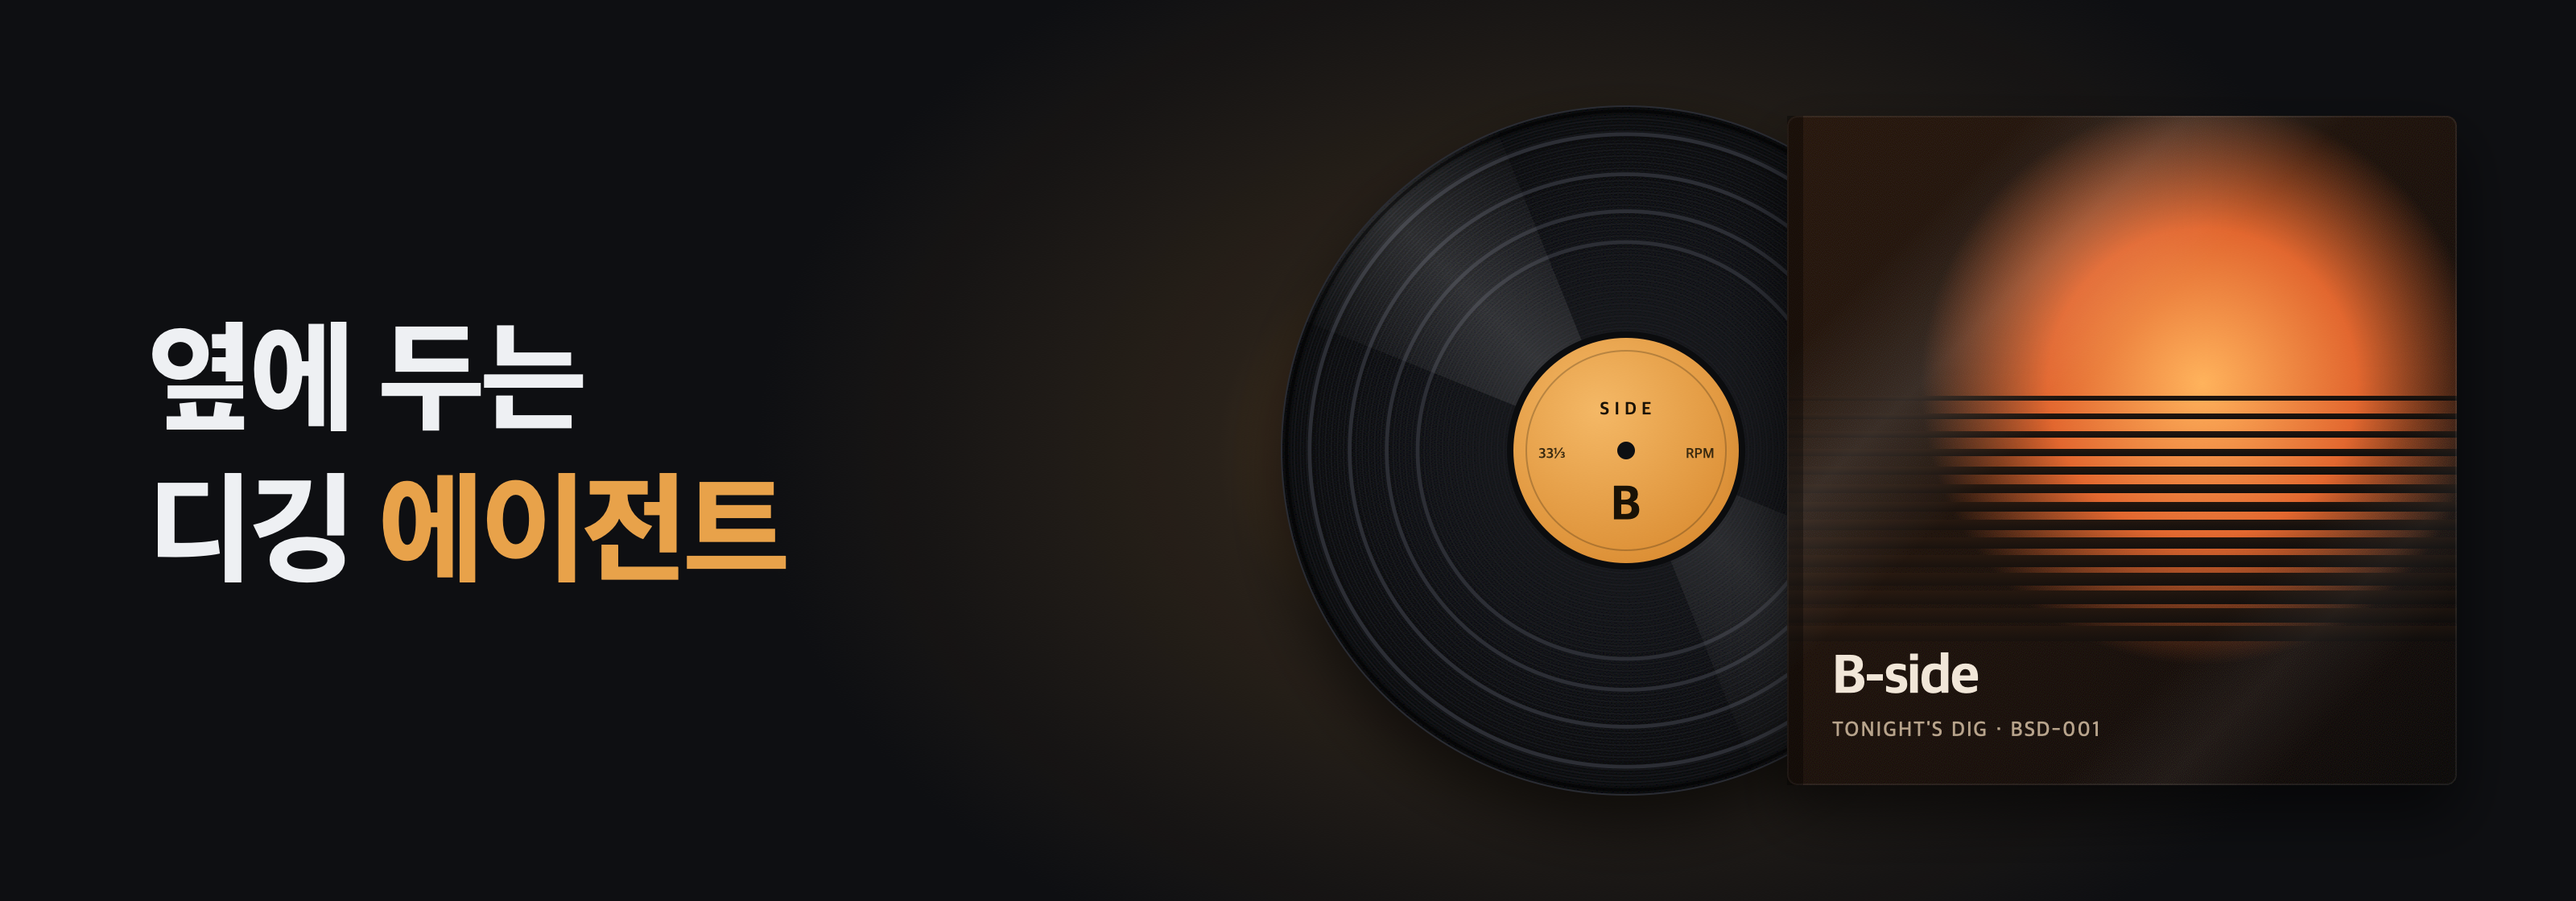
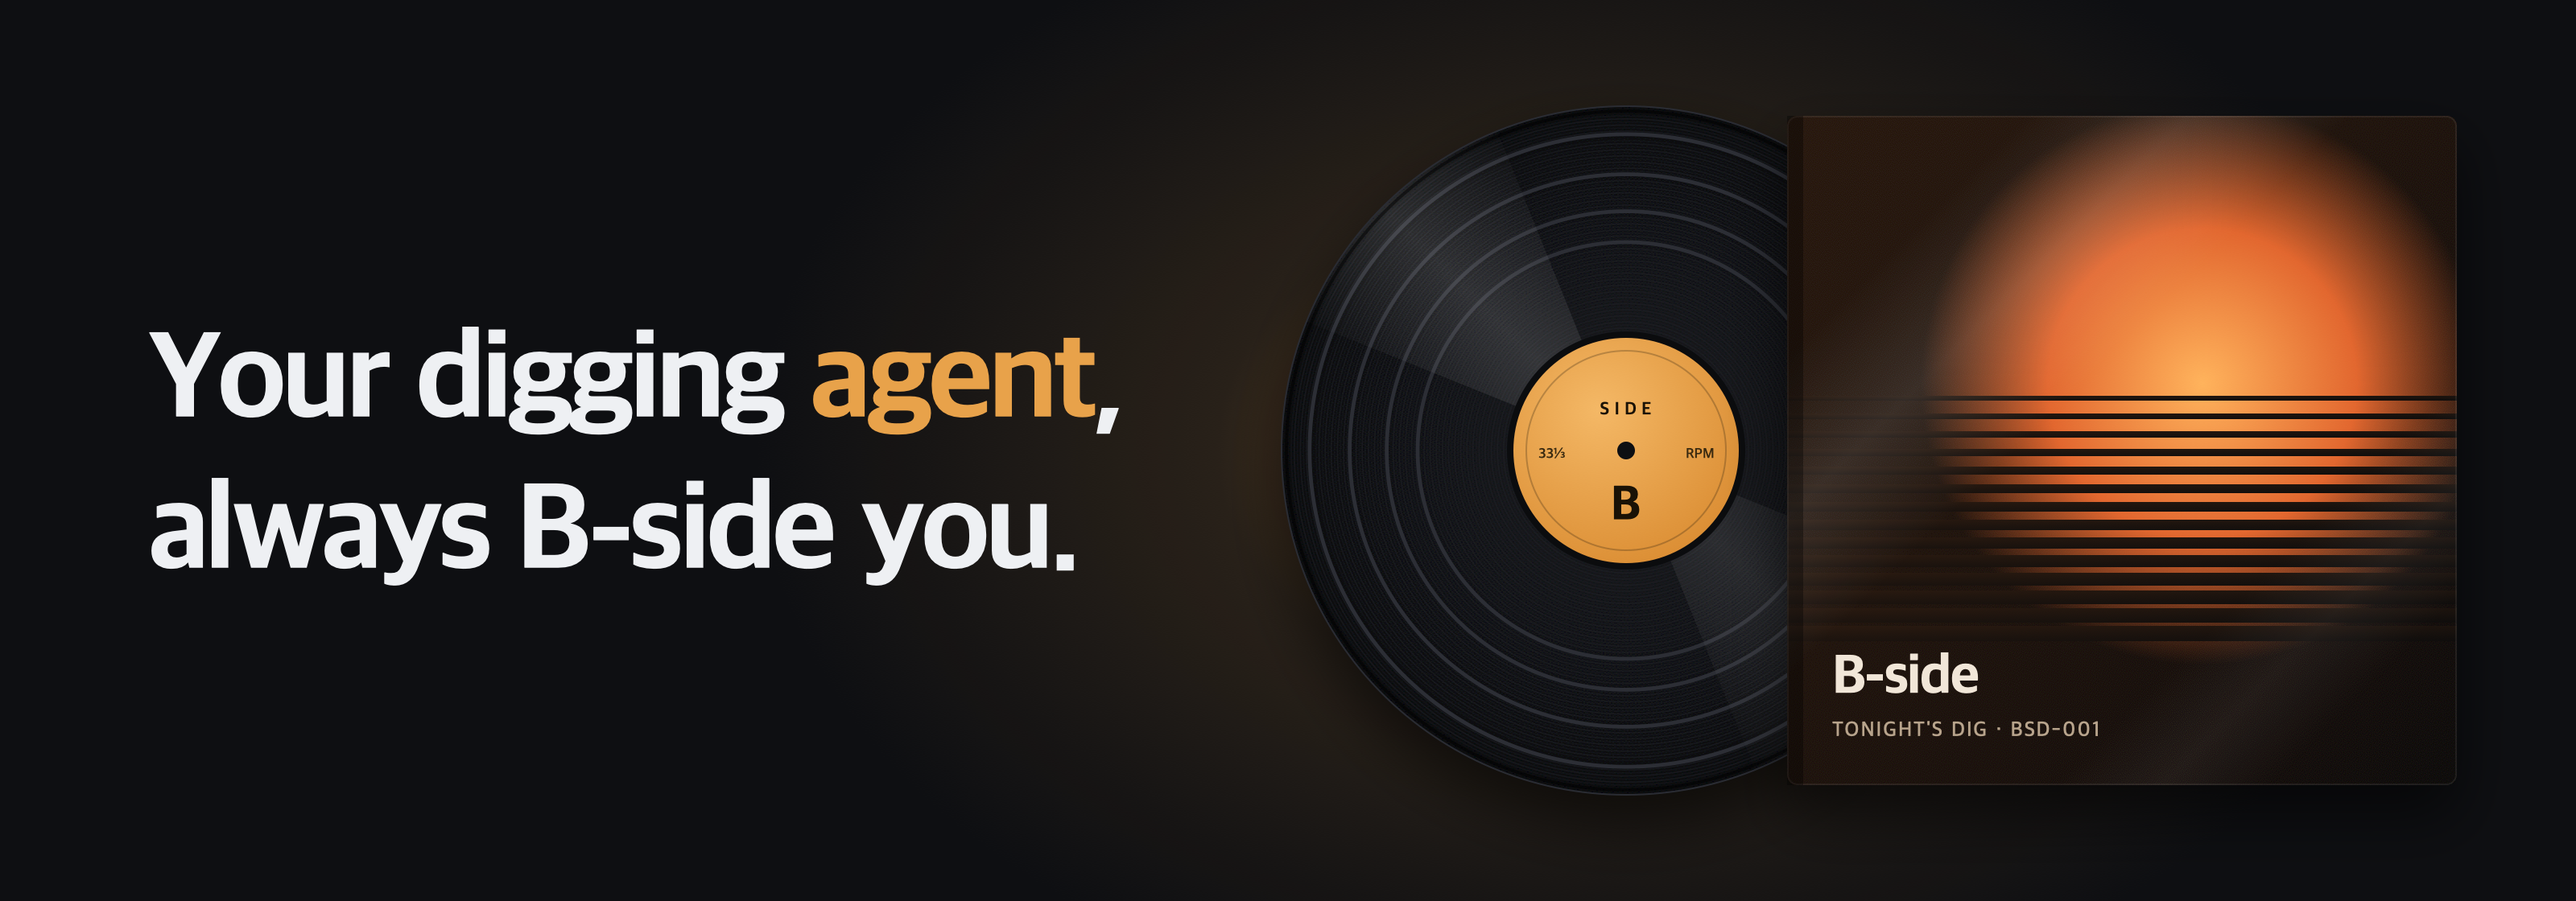
배너 문구 영어로: Your digging agent, always B-side you.

Changed region(s): [[0.0625, 0.3438, 0.4375, 0.5], [0.0625, 0.5312, 0.4062, 0.6562]]

diff --git a/docs/index.html b/docs/index.html
@@ -144,9 +144,9 @@
 <header class="hero">
   <div class="wrap">
     <div>
-      <p class="eyebrow">B-side, beside you</p>
+      <p class="eyebrow">디깅 에이전트</p>
       <h1>B-side</h1>
-      <p class="tag">옆에 두는 디깅 <span style="color:var(--accent)">에이전트</span></p>
+      <p class="tag">Your digging <span style="color:var(--accent)">agent</span>, always B-side you.</p>
       <p class="lead">자는 동안 옆에서 같이 파 둘게요. 인터뷰랑 리뷰, 크레딧을 뒤져서 찾은 음악마다 어디서 찾았는지도 적어 둘게요. 아침엔 듣기만 하세요.</p>
       <div class="cta">
         <a class="btn primary" href="https://github.com/jhwoo582/B-side">GitHub에서 보기</a>
